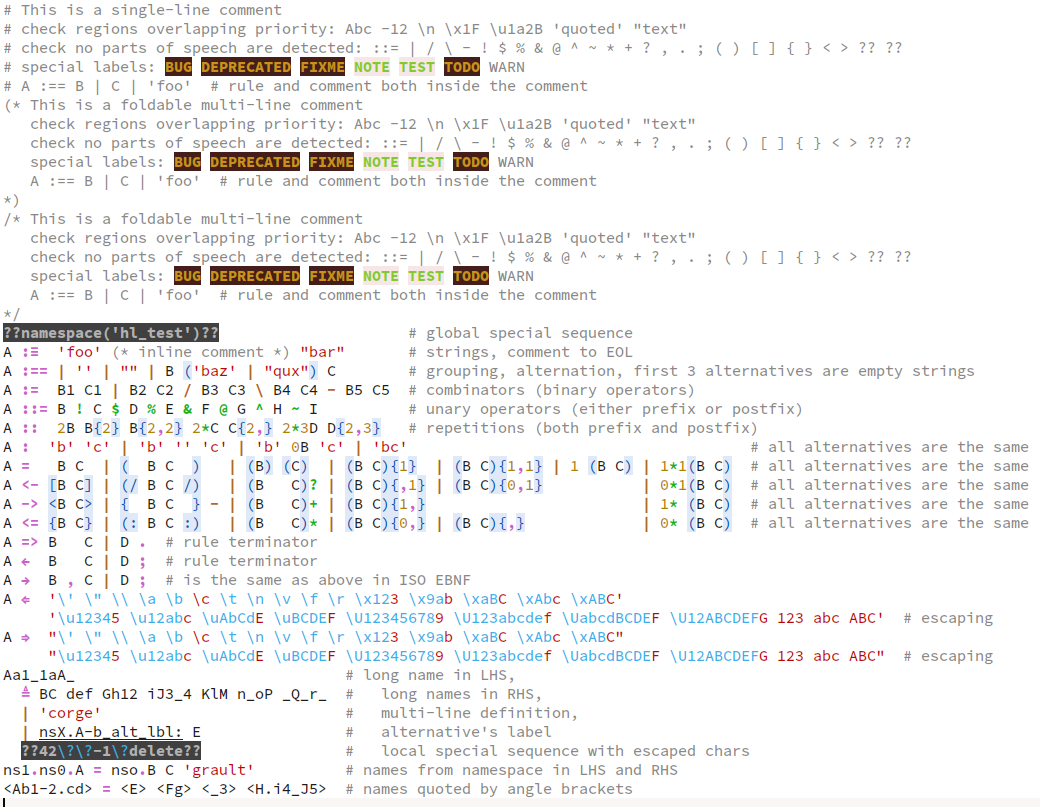
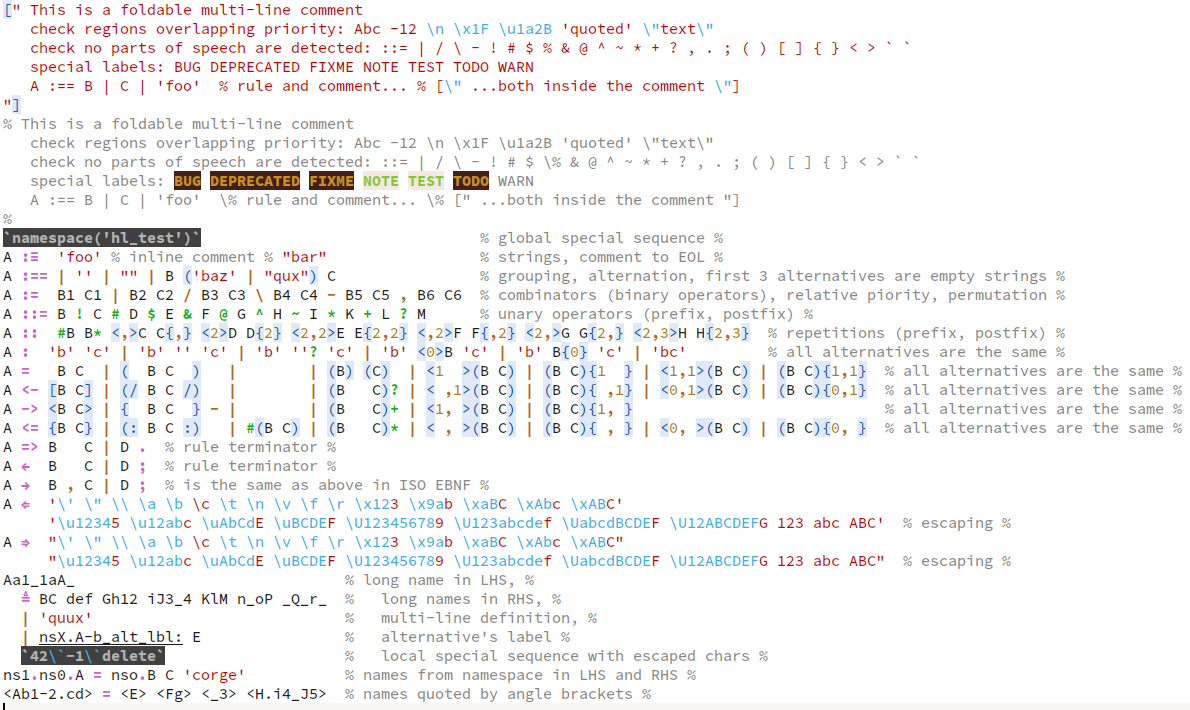
update BNF/EBNF/ABNF/WBNF syntax
BNF/EBNF/ABNF/WBNF syntax for Kate, version 3 and
BNF/EBNF/ABNF/WBNF syntax for mc, version 3.0.0 :
- add unary prefix repetition operators (#) and (<n,n>)
- comma (,) is a combinator not separator
- change special block region markers
- change comment block markers
- bump version
- update a demo

test.bnf
- sync with changes

Changes to be committed:
	modified:   Kate/bnf.xml
	modified:   Kate/test.bnf.html
	modified:   Kate/test.bnf.png
	modified:   mc/bnf.syntax
	modified:   mc/test.bnf.png
	modified:   test.bnf

Changed region(s): [[0.0, 0.0, 1.0, 0.9915], [0.6462, 0.2169, 0.6769, 0.2479]]

diff --git a/Kate/test.bnf.html b/Kate/test.bnf.html
@@ -4,46 +4,41 @@
 <title>test.bnf</title>
 <meta name="generator" content="KF5::SyntaxHighlighting - Definition (BNF/EBNF/ABNF/WBNF) - Theme (Breeze Light)"/>
 </head><body style="background-color:#ffffff;color:#1f1c1b"><pre>
-<span style="color:#898887"># This is a single-line comment</span>
-<span style="color:#898887"># check regions overlapping priority: Abc -12 \n \x1F \u1a2B 'quoted' "text"</span>
-<span style="color:#898887"># check no parts of speech are detected: ::= | / \ - ! $ % &amp; @ ^ ~ * + ? , . ; ( ) [ ] { } &lt; > ?? ??</span>
-<span style="color:#898887"># special labels: </span><span style="color:#ca9219;background-color:#451e1a;font-weight:bold">BUG</span><span style="color:#898887"> </span><span style="color:#ca9219;background-color:#451e1a;font-weight:bold">DEPRECATED</span><span style="color:#898887"> </span><span style="color:#ca9219;background-color:#451e1a;font-weight:bold">FIXME</span><span style="color:#898887"> </span><span style="color:#81ca2d;background-color:#f7e6e6;font-weight:bold">NOTE</span><span style="color:#898887"> </span><span style="color:#81ca2d;background-color:#f7e6e6;font-weight:bold">TEST</span><span style="color:#898887"> </span><span style="color:#ca9219;background-color:#451e1a;font-weight:bold">TODO</span><span style="color:#898887"> WARN</span>
-<span style="color:#898887"># A :== B | C | 'foo'  # rule and comment both inside the comment</span>
-<span style="color:#898887">(* This is a foldable multi-line comment</span>
-<span style="color:#898887">   check regions overlapping priority: Abc -12 \n \x1F \u1a2B 'quoted' "text"</span>
-<span style="color:#898887">   check no parts of speech are detected: ::= | / \ - ! $ % &amp; @ ^ ~ * + ? , . ; ( ) [ ] { } &lt; > ?? ??</span>
+<span style="color:#0057ae;background-color:#e0e9f8">[</span><span style="color:#bf0303">" This is a foldable multi-line comment</span>
+<span style="color:#bf0303">   check regions overlapping priority: Abc -12 </span><span style="color:#3daee9">\n</span><span style="color:#bf0303"> </span><span style="color:#3daee9">\x1F</span><span style="color:#bf0303"> </span><span style="color:#3daee9">\u1a2B</span><span style="color:#bf0303"> 'quoted' </span><span style="color:#3daee9">\"</span><span style="color:#bf0303">text</span><span style="color:#3daee9">\"</span>
+<span style="color:#bf0303">   check no parts of speech are detected: ::= | / \ - ! # $ % &amp; @ ^ ~ * + ? , . ; ( ) [ ] { } &lt; > ` `</span>
+<span style="color:#bf0303">   special labels: BUG DEPRECATED FIXME NOTE TEST TODO WARN</span>
+<span style="color:#bf0303">   A :== B | C | 'foo'  % rule and comment... % [</span><span style="color:#3daee9">\"</span><span style="color:#bf0303"> ...both inside the comment </span><span style="color:#3daee9">\"</span><span style="color:#bf0303">]</span>
+<span style="color:#bf0303">"</span><span style="color:#0057ae;background-color:#e0e9f8">]</span>
+<span style="color:#898887">% This is a foldable multi-line comment</span>
+<span style="color:#898887">   check regions overlapping priority: Abc -12 \n \x1F \u1a2B 'quoted' \"text\"</span>
+<span style="color:#898887">   check no parts of speech are detected: ::= | / \ - ! # $ \% &amp; @ ^ ~ * + ? , . ; ( ) [ ] { } &lt; > ` `</span>
 <span style="color:#898887">   special labels: </span><span style="color:#ca9219;background-color:#451e1a;font-weight:bold">BUG</span><span style="color:#898887"> </span><span style="color:#ca9219;background-color:#451e1a;font-weight:bold">DEPRECATED</span><span style="color:#898887"> </span><span style="color:#ca9219;background-color:#451e1a;font-weight:bold">FIXME</span><span style="color:#898887"> </span><span style="color:#81ca2d;background-color:#f7e6e6;font-weight:bold">NOTE</span><span style="color:#898887"> </span><span style="color:#81ca2d;background-color:#f7e6e6;font-weight:bold">TEST</span><span style="color:#898887"> </span><span style="color:#ca9219;background-color:#451e1a;font-weight:bold">TODO</span><span style="color:#898887"> WARN</span>
-<span style="color:#898887">   A :== B | C | 'foo'  # rule and comment both inside the comment</span>
-<span style="color:#898887">*)</span>
-<span style="color:#898887">/* This is a foldable multi-line comment</span>
-<span style="color:#898887">   check regions overlapping priority: Abc -12 \n \x1F \u1a2B 'quoted' "text"</span>
-<span style="color:#898887">   check no parts of speech are detected: ::= | / \ - ! $ % &amp; @ ^ ~ * + ? , . ; ( ) [ ] { } &lt; > ?? ??</span>
-<span style="color:#898887">   special labels: </span><span style="color:#ca9219;background-color:#451e1a;font-weight:bold">BUG</span><span style="color:#898887"> </span><span style="color:#ca9219;background-color:#451e1a;font-weight:bold">DEPRECATED</span><span style="color:#898887"> </span><span style="color:#ca9219;background-color:#451e1a;font-weight:bold">FIXME</span><span style="color:#898887"> </span><span style="color:#81ca2d;background-color:#f7e6e6;font-weight:bold">NOTE</span><span style="color:#898887"> </span><span style="color:#81ca2d;background-color:#f7e6e6;font-weight:bold">TEST</span><span style="color:#898887"> </span><span style="color:#ca9219;background-color:#451e1a;font-weight:bold">TODO</span><span style="color:#898887"> WARN</span>
-<span style="color:#898887">   A :== B | C | 'foo'  # rule and comment both inside the comment</span>
-<span style="color:#898887">*/</span>
-<span style="color:#b2b2b2;background-color:#404040;font-weight:bold">??namespace('hl_test')??</span>                     <span style="color:#898887"># global special sequence</span>
-A <span style="color:#ca60ca;font-weight:bold">:≡</span>  <span style="color:#bf0303">'foo'</span> <span style="color:#898887">(* inline comment *)</span> <span style="color:#bf0303">"bar"</span>       <span style="color:#898887"># strings, comment to EOL</span>
-A <span style="color:#ca60ca;font-weight:bold">:==</span> <span style="color:#b26818;font-weight:bold">|</span> <span style="color:#bf0303">''</span> <span style="color:#b26818;font-weight:bold">|</span> <span style="color:#bf0303">""</span> <span style="color:#b26818;font-weight:bold">|</span> B <span style="color:#0057ae;background-color:#e0e9f8">(</span><span style="color:#bf0303">'baz'</span> <span style="color:#b26818;font-weight:bold">|</span> <span style="color:#bf0303">"qux"</span><span style="color:#0057ae;background-color:#e0e9f8">)</span> C        <span style="color:#898887"># grouping, alternation, first 3 alternatives are empty strings</span>
-A <span style="color:#ca60ca;font-weight:bold">:=</span>  B1 C1 <span style="color:#b26818;font-weight:bold">|</span> B2 C2 <span style="color:#b26818;font-weight:bold">/</span> B3 C3 <span style="color:#b26818;font-weight:bold">\</span> B4 C4 <span style="color:#b26818;font-weight:bold">-</span> B5 C5  <span style="color:#898887"># combinators (binary operators)</span>
-A <span style="color:#ca60ca;font-weight:bold">::=</span> B <span style="color:#18b218;font-weight:bold">!</span> C <span style="color:#18b218;font-weight:bold">$</span> D <span style="color:#18b218;font-weight:bold">%</span> E <span style="color:#18b218;font-weight:bold">&amp;</span> F <span style="color:#18b218;font-weight:bold">@</span> G <span style="color:#18b218;font-weight:bold">^</span> H <span style="color:#18b218;font-weight:bold">~</span> I          <span style="color:#898887"># unary operators (either prefix or postfix)</span>
-A <span style="color:#ca60ca;font-weight:bold">::</span>  <span style="color:#b08000">2</span>B B<span style="color:#0057ae;background-color:#e0e9f8">{</span><span style="color:#b08000">2</span><span style="color:#0057ae;background-color:#e0e9f8">}</span> B<span style="color:#0057ae;background-color:#e0e9f8">{</span><span style="color:#b08000">2</span><span style="color:#ca60ca;font-weight:bold">,</span><span style="color:#b08000">2</span><span style="color:#0057ae;background-color:#e0e9f8">}</span> <span style="color:#b08000">2</span><span style="color:#18b218;font-weight:bold">*</span>C C<span style="color:#0057ae;background-color:#e0e9f8">{</span><span style="color:#b08000">2</span><span style="color:#ca60ca;font-weight:bold">,</span><span style="color:#0057ae;background-color:#e0e9f8">}</span> <span style="color:#b08000">2</span><span style="color:#18b218;font-weight:bold">*</span><span style="color:#b08000">3</span>D D<span style="color:#0057ae;background-color:#e0e9f8">{</span><span style="color:#b08000">2</span><span style="color:#ca60ca;font-weight:bold">,</span><span style="color:#b08000">3</span><span style="color:#0057ae;background-color:#e0e9f8">}</span>   <span style="color:#898887"># repetitions (both prefix and postfix)</span>
-A <span style="color:#ca60ca;font-weight:bold">:</span>  <span style="color:#bf0303">'b'</span> <span style="color:#bf0303">'c'</span> <span style="color:#b26818;font-weight:bold">|</span> <span style="color:#bf0303">'b'</span> <span style="color:#bf0303">''</span> <span style="color:#bf0303">'c'</span> <span style="color:#b26818;font-weight:bold">|</span> <span style="color:#bf0303">'b'</span> <span style="color:#b08000">0</span>B <span style="color:#bf0303">'c'</span> <span style="color:#b26818;font-weight:bold">|</span> <span style="color:#bf0303">'bc'</span>                                      <span style="color:#898887"># all alternatives are the same</span>
-A <span style="color:#ca60ca;font-weight:bold">=</span>   B C  <span style="color:#b26818;font-weight:bold">|</span> <span style="color:#0057ae;background-color:#e0e9f8">(</span>  B C  <span style="color:#0057ae;background-color:#e0e9f8">)</span>   <span style="color:#b26818;font-weight:bold">|</span> <span style="color:#0057ae;background-color:#e0e9f8">(</span>B<span style="color:#0057ae;background-color:#e0e9f8">)</span> <span style="color:#0057ae;background-color:#e0e9f8">(</span>C<span style="color:#0057ae;background-color:#e0e9f8">)</span>  <span style="color:#b26818;font-weight:bold">|</span> <span style="color:#0057ae;background-color:#e0e9f8">(</span>B C<span style="color:#0057ae;background-color:#e0e9f8">){</span><span style="color:#b08000">1</span><span style="color:#0057ae;background-color:#e0e9f8">}</span>  <span style="color:#b26818;font-weight:bold">|</span> <span style="color:#0057ae;background-color:#e0e9f8">(</span>B C<span style="color:#0057ae;background-color:#e0e9f8">){</span><span style="color:#b08000">1</span><span style="color:#ca60ca;font-weight:bold">,</span><span style="color:#b08000">1</span><span style="color:#0057ae;background-color:#e0e9f8">}</span> <span style="color:#b26818;font-weight:bold">|</span> <span style="color:#b08000">1</span> <span style="color:#0057ae;background-color:#e0e9f8">(</span>B C<span style="color:#0057ae;background-color:#e0e9f8">)</span> <span style="color:#b26818;font-weight:bold">|</span> <span style="color:#b08000">1</span><span style="color:#18b218;font-weight:bold">*</span><span style="color:#b08000">1</span><span style="color:#0057ae;background-color:#e0e9f8">(</span>B C<span style="color:#0057ae;background-color:#e0e9f8">)</span>  <span style="color:#898887"># all alternatives are the same</span>
-A <span style="color:#ca60ca;font-weight:bold">&lt;-</span> <span style="color:#0057ae;background-color:#e0e9f8">[</span>B C<span style="color:#0057ae;background-color:#e0e9f8">]</span> <span style="color:#b26818;font-weight:bold">|</span> <span style="color:#0057ae;background-color:#e0e9f8">(/</span> B C <span style="color:#0057ae;background-color:#e0e9f8">/)</span>   <span style="color:#b26818;font-weight:bold">|</span> <span style="color:#0057ae;background-color:#e0e9f8">(</span>B   C<span style="color:#0057ae;background-color:#e0e9f8">)</span><span style="color:#18b218;font-weight:bold">?</span> <span style="color:#b26818;font-weight:bold">|</span> <span style="color:#0057ae;background-color:#e0e9f8">(</span>B C<span style="color:#0057ae;background-color:#e0e9f8">){</span><span style="color:#ca60ca;font-weight:bold">,</span><span style="color:#b08000">1</span><span style="color:#0057ae;background-color:#e0e9f8">}</span> <span style="color:#b26818;font-weight:bold">|</span> <span style="color:#0057ae;background-color:#e0e9f8">(</span>B C<span style="color:#0057ae;background-color:#e0e9f8">){</span><span style="color:#b08000">0</span><span style="color:#ca60ca;font-weight:bold">,</span><span style="color:#b08000">1</span><span style="color:#0057ae;background-color:#e0e9f8">}</span>           <span style="color:#b26818;font-weight:bold">|</span> <span style="color:#b08000">0</span><span style="color:#18b218;font-weight:bold">*</span><span style="color:#b08000">1</span><span style="color:#0057ae;background-color:#e0e9f8">(</span>B C<span style="color:#0057ae;background-color:#e0e9f8">)</span>  <span style="color:#898887"># all alternatives are the same</span>
-A <span style="color:#ca60ca;font-weight:bold">-></span> <span style="color:#0057ae;background-color:#e0e9f8">&lt;</span>B C<span style="color:#0057ae;background-color:#e0e9f8">></span> <span style="color:#b26818;font-weight:bold">|</span> <span style="color:#0057ae;background-color:#e0e9f8">{</span>  B C  <span style="color:#0057ae;background-color:#e0e9f8">}</span> <span style="color:#b26818;font-weight:bold">-</span> <span style="color:#b26818;font-weight:bold">|</span> <span style="color:#0057ae;background-color:#e0e9f8">(</span>B   C<span style="color:#0057ae;background-color:#e0e9f8">)</span><span style="color:#18b218;font-weight:bold">+</span> <span style="color:#b26818;font-weight:bold">|</span> <span style="color:#0057ae;background-color:#e0e9f8">(</span>B C<span style="color:#0057ae;background-color:#e0e9f8">){</span><span style="color:#b08000">1</span><span style="color:#ca60ca;font-weight:bold">,</span><span style="color:#0057ae;background-color:#e0e9f8">}</span>                        <span style="color:#b26818;font-weight:bold">|</span> <span style="color:#b08000">1</span><span style="color:#18b218;font-weight:bold">*</span> <span style="color:#0057ae;background-color:#e0e9f8">(</span>B C<span style="color:#0057ae;background-color:#e0e9f8">)</span>  <span style="color:#898887"># all alternatives are the same</span>
-A <span style="color:#ca60ca;font-weight:bold">&lt;=</span> <span style="color:#0057ae;background-color:#e0e9f8">{</span>B C<span style="color:#0057ae;background-color:#e0e9f8">}</span> <span style="color:#b26818;font-weight:bold">|</span> <span style="color:#0057ae;background-color:#e0e9f8">(:</span> B C <span style="color:#0057ae;background-color:#e0e9f8">:)</span>   <span style="color:#b26818;font-weight:bold">|</span> <span style="color:#0057ae;background-color:#e0e9f8">(</span>B   C<span style="color:#0057ae;background-color:#e0e9f8">)</span><span style="color:#18b218;font-weight:bold">*</span> <span style="color:#b26818;font-weight:bold">|</span> <span style="color:#0057ae;background-color:#e0e9f8">(</span>B C<span style="color:#0057ae;background-color:#e0e9f8">){</span><span style="color:#b08000">0</span><span style="color:#ca60ca;font-weight:bold">,</span><span style="color:#0057ae;background-color:#e0e9f8">}</span> <span style="color:#b26818;font-weight:bold">|</span> <span style="color:#0057ae;background-color:#e0e9f8">(</span>B C<span style="color:#0057ae;background-color:#e0e9f8">){</span><span style="color:#ca60ca;font-weight:bold">,</span><span style="color:#0057ae;background-color:#e0e9f8">}</span>             <span style="color:#b26818;font-weight:bold">|</span> <span style="color:#b08000">0</span><span style="color:#18b218;font-weight:bold">*</span> <span style="color:#0057ae;background-color:#e0e9f8">(</span>B C<span style="color:#0057ae;background-color:#e0e9f8">)</span>  <span style="color:#898887"># all alternatives are the same</span>
-A <span style="color:#ca60ca;font-weight:bold">=></span> B   C <span style="color:#b26818;font-weight:bold">|</span> D <span style="color:#ca60ca;font-weight:bold">.</span>  <span style="color:#898887"># rule terminator</span>
-A <span style="color:#ca60ca;font-weight:bold">←</span>  B   C <span style="color:#b26818;font-weight:bold">|</span> D <span style="color:#ca60ca;font-weight:bold">;</span>  <span style="color:#898887"># rule terminator</span>
-A <span style="color:#ca60ca;font-weight:bold">→</span>  B <span style="color:#ca60ca;font-weight:bold">,</span> C <span style="color:#b26818;font-weight:bold">|</span> D <span style="color:#ca60ca;font-weight:bold">;</span>  <span style="color:#898887"># is the same as above in ISO EBNF</span>
+<span style="color:#898887">   A :== B | C | 'foo'  \% rule and comment... \% [" ...both inside the comment "]</span>
+<span style="color:#898887">%</span>
+<span style="color:#b2b2b2;background-color:#404040;font-weight:bold">`namespace('hl_test')`</span>                               <span style="color:#898887">% global special sequence %</span>
+A <span style="color:#ca60ca;font-weight:bold">:≡</span>  <span style="color:#bf0303">'foo'</span> <span style="color:#898887">% inline comment %</span> <span style="color:#bf0303">"bar"</span>                 <span style="color:#898887">% strings, comment to EOL %</span>
+A <span style="color:#ca60ca;font-weight:bold">:==</span> <span style="color:#b26818;font-weight:bold">|</span> <span style="color:#bf0303">''</span> <span style="color:#b26818;font-weight:bold">|</span> <span style="color:#bf0303">""</span> <span style="color:#b26818;font-weight:bold">|</span> B <span style="color:#0057ae;background-color:#e0e9f8">(</span><span style="color:#bf0303">'baz'</span> <span style="color:#b26818;font-weight:bold">|</span> <span style="color:#bf0303">"qux"</span><span style="color:#0057ae;background-color:#e0e9f8">)</span> C                <span style="color:#898887">% grouping, alternation, first 3 alternatives are empty strings %</span>
+A <span style="color:#ca60ca;font-weight:bold">:=</span>  B1 C1 <span style="color:#b26818;font-weight:bold">|</span> B2 C2 <span style="color:#b26818;font-weight:bold">/</span> B3 C3 <span style="color:#b26818;font-weight:bold">\</span> B4 C4 <span style="color:#b26818;font-weight:bold">-</span> B5 C5 <span style="color:#b26818;font-weight:bold">,</span> B6 C6  <span style="color:#898887">% combinators (binary operators), relative piority, permutation %</span>
+A <span style="color:#ca60ca;font-weight:bold">::=</span> B <span style="color:#18b218;font-weight:bold">!</span> C <span style="color:#18b218;font-weight:bold">#</span> D <span style="color:#18b218;font-weight:bold">$</span> E <span style="color:#18b218;font-weight:bold">&amp;</span> F <span style="color:#18b218;font-weight:bold">@</span> G <span style="color:#18b218;font-weight:bold">^</span> H <span style="color:#18b218;font-weight:bold">~</span> I <span style="color:#18b218;font-weight:bold">*</span> K <span style="color:#18b218;font-weight:bold">+</span> L <span style="color:#18b218;font-weight:bold">?</span> M      <span style="color:#898887">% unary operators (prefix, postfix) %</span>
+A <span style="color:#ca60ca;font-weight:bold">::</span>  <span style="color:#18b218;font-weight:bold">#</span>B B<span style="color:#18b218;font-weight:bold">*</span> <span style="color:#0057ae;background-color:#e0e9f8">&lt;</span><span style="color:#b26818;font-weight:bold">,</span><span style="color:#0057ae;background-color:#e0e9f8">></span>C C<span style="color:#0057ae;background-color:#e0e9f8">{</span><span style="color:#b26818;font-weight:bold">,</span><span style="color:#0057ae;background-color:#e0e9f8">}</span> <span style="color:#0057ae;background-color:#e0e9f8">&lt;</span><span style="color:#b08000">2</span><span style="color:#0057ae;background-color:#e0e9f8">></span>D D<span style="color:#0057ae;background-color:#e0e9f8">{</span><span style="color:#b08000">2</span><span style="color:#0057ae;background-color:#e0e9f8">}</span> <span style="color:#0057ae;background-color:#e0e9f8">&lt;</span><span style="color:#b08000">2</span><span style="color:#b26818;font-weight:bold">,</span><span style="color:#b08000">2</span><span style="color:#0057ae;background-color:#e0e9f8">></span>E E<span style="color:#0057ae;background-color:#e0e9f8">{</span><span style="color:#b08000">2</span><span style="color:#b26818;font-weight:bold">,</span><span style="color:#b08000">2</span><span style="color:#0057ae;background-color:#e0e9f8">}</span> <span style="color:#0057ae;background-color:#e0e9f8">&lt;</span><span style="color:#b26818;font-weight:bold">,</span><span style="color:#b08000">2</span><span style="color:#0057ae;background-color:#e0e9f8">></span>F F<span style="color:#0057ae;background-color:#e0e9f8">{</span><span style="color:#b26818;font-weight:bold">,</span><span style="color:#b08000">2</span><span style="color:#0057ae;background-color:#e0e9f8">}</span> <span style="color:#0057ae;background-color:#e0e9f8">&lt;</span><span style="color:#b08000">2</span><span style="color:#b26818;font-weight:bold">,</span><span style="color:#0057ae;background-color:#e0e9f8">></span>G G<span style="color:#0057ae;background-color:#e0e9f8">{</span><span style="color:#b08000">2</span><span style="color:#b26818;font-weight:bold">,</span><span style="color:#0057ae;background-color:#e0e9f8">}</span> <span style="color:#0057ae;background-color:#e0e9f8">&lt;</span><span style="color:#b08000">2</span><span style="color:#b26818;font-weight:bold">,</span><span style="color:#b08000">3</span><span style="color:#0057ae;background-color:#e0e9f8">></span>H H<span style="color:#0057ae;background-color:#e0e9f8">{</span><span style="color:#b08000">2</span><span style="color:#b26818;font-weight:bold">,</span><span style="color:#b08000">3</span><span style="color:#0057ae;background-color:#e0e9f8">}</span>  <span style="color:#898887">% repetitions (prefix, postfix) %</span>
+A <span style="color:#ca60ca;font-weight:bold">:</span>  <span style="color:#bf0303">'b'</span> <span style="color:#bf0303">'c'</span> <span style="color:#b26818;font-weight:bold">|</span> <span style="color:#bf0303">'b'</span> <span style="color:#bf0303">''</span> <span style="color:#bf0303">'c'</span> <span style="color:#b26818;font-weight:bold">|</span> <span style="color:#bf0303">'b'</span> <span style="color:#bf0303">''</span><span style="color:#18b218;font-weight:bold">?</span> <span style="color:#bf0303">'c'</span> <span style="color:#b26818;font-weight:bold">|</span> <span style="color:#bf0303">'b'</span> <span style="color:#0057ae;background-color:#e0e9f8">&lt;</span><span style="color:#b08000">0</span><span style="color:#0057ae;background-color:#e0e9f8">></span>B <span style="color:#bf0303">'c'</span> <span style="color:#b26818;font-weight:bold">|</span> <span style="color:#bf0303">'b'</span> B<span style="color:#0057ae;background-color:#e0e9f8">{</span><span style="color:#b08000">0</span><span style="color:#0057ae;background-color:#e0e9f8">}</span> <span style="color:#bf0303">'c'</span> <span style="color:#b26818;font-weight:bold">|</span> <span style="color:#bf0303">'bc'</span>         <span style="color:#898887">% all alternatives are the same %</span>
+A <span style="color:#ca60ca;font-weight:bold">=</span>   B C  <span style="color:#b26818;font-weight:bold">|</span> <span style="color:#0057ae;background-color:#e0e9f8">(</span>  B C  <span style="color:#0057ae;background-color:#e0e9f8">)</span>   <span style="color:#b26818;font-weight:bold">|</span>        <span style="color:#b26818;font-weight:bold">|</span> <span style="color:#0057ae;background-color:#e0e9f8">(</span>B<span style="color:#0057ae;background-color:#e0e9f8">)</span> <span style="color:#0057ae;background-color:#e0e9f8">(</span>C<span style="color:#0057ae;background-color:#e0e9f8">)</span>  <span style="color:#b26818;font-weight:bold">|</span> <span style="color:#0057ae;background-color:#e0e9f8">&lt;</span><span style="color:#b08000">1</span>  <span style="color:#0057ae;background-color:#e0e9f8">>(</span>B C<span style="color:#0057ae;background-color:#e0e9f8">)</span> <span style="color:#b26818;font-weight:bold">|</span> <span style="color:#0057ae;background-color:#e0e9f8">(</span>B C<span style="color:#0057ae;background-color:#e0e9f8">){</span><span style="color:#b08000">1</span>  <span style="color:#0057ae;background-color:#e0e9f8">}</span> <span style="color:#b26818;font-weight:bold">|</span> <span style="color:#0057ae;background-color:#e0e9f8">&lt;</span><span style="color:#b08000">1</span><span style="color:#b26818;font-weight:bold">,</span><span style="color:#b08000">1</span><span style="color:#0057ae;background-color:#e0e9f8">>(</span>B C<span style="color:#0057ae;background-color:#e0e9f8">)</span> <span style="color:#b26818;font-weight:bold">|</span> <span style="color:#0057ae;background-color:#e0e9f8">(</span>B C<span style="color:#0057ae;background-color:#e0e9f8">){</span><span style="color:#b08000">1</span><span style="color:#b26818;font-weight:bold">,</span><span style="color:#b08000">1</span><span style="color:#0057ae;background-color:#e0e9f8">}</span>  <span style="color:#898887">% all alternatives are the same %</span>
+A <span style="color:#ca60ca;font-weight:bold">&lt;-</span> <span style="color:#0057ae;background-color:#e0e9f8">[</span>B C<span style="color:#0057ae;background-color:#e0e9f8">]</span> <span style="color:#b26818;font-weight:bold">|</span> <span style="color:#0057ae;background-color:#e0e9f8">(/</span> B C <span style="color:#0057ae;background-color:#e0e9f8">/)</span>   <span style="color:#b26818;font-weight:bold">|</span>        <span style="color:#b26818;font-weight:bold">|</span> <span style="color:#0057ae;background-color:#e0e9f8">(</span>B   C<span style="color:#0057ae;background-color:#e0e9f8">)</span><span style="color:#18b218;font-weight:bold">?</span> <span style="color:#b26818;font-weight:bold">|</span> <span style="color:#0057ae;background-color:#e0e9f8">&lt;</span> <span style="color:#b26818;font-weight:bold">,</span><span style="color:#b08000">1</span><span style="color:#0057ae;background-color:#e0e9f8">>(</span>B C<span style="color:#0057ae;background-color:#e0e9f8">)</span> <span style="color:#b26818;font-weight:bold">|</span> <span style="color:#0057ae;background-color:#e0e9f8">(</span>B C<span style="color:#0057ae;background-color:#e0e9f8">){</span> <span style="color:#b26818;font-weight:bold">,</span><span style="color:#b08000">1</span><span style="color:#0057ae;background-color:#e0e9f8">}</span> <span style="color:#b26818;font-weight:bold">|</span> <span style="color:#0057ae;background-color:#e0e9f8">&lt;</span><span style="color:#b08000">0</span><span style="color:#b26818;font-weight:bold">,</span><span style="color:#b08000">1</span><span style="color:#0057ae;background-color:#e0e9f8">>(</span>B C<span style="color:#0057ae;background-color:#e0e9f8">)</span> <span style="color:#b26818;font-weight:bold">|</span> <span style="color:#0057ae;background-color:#e0e9f8">(</span>B C<span style="color:#0057ae;background-color:#e0e9f8">){</span><span style="color:#b08000">0</span><span style="color:#b26818;font-weight:bold">,</span><span style="color:#b08000">1</span><span style="color:#0057ae;background-color:#e0e9f8">}</span>  <span style="color:#898887">% all alternatives are the same %</span>
+A <span style="color:#ca60ca;font-weight:bold">-></span> <span style="color:#0057ae;background-color:#e0e9f8">&lt;</span>B C<span style="color:#0057ae;background-color:#e0e9f8">></span> <span style="color:#b26818;font-weight:bold">|</span> <span style="color:#0057ae;background-color:#e0e9f8">{</span>  B C  <span style="color:#0057ae;background-color:#e0e9f8">}</span> <span style="color:#b26818;font-weight:bold">-</span> <span style="color:#b26818;font-weight:bold">|</span>        <span style="color:#b26818;font-weight:bold">|</span> <span style="color:#0057ae;background-color:#e0e9f8">(</span>B   C<span style="color:#0057ae;background-color:#e0e9f8">)</span><span style="color:#18b218;font-weight:bold">+</span> <span style="color:#b26818;font-weight:bold">|</span> <span style="color:#0057ae;background-color:#e0e9f8">&lt;</span><span style="color:#b08000">1</span><span style="color:#b26818;font-weight:bold">,</span> <span style="color:#0057ae;background-color:#e0e9f8">>(</span>B C<span style="color:#0057ae;background-color:#e0e9f8">)</span> <span style="color:#b26818;font-weight:bold">|</span> <span style="color:#0057ae;background-color:#e0e9f8">(</span>B C<span style="color:#0057ae;background-color:#e0e9f8">){</span><span style="color:#b08000">1</span><span style="color:#b26818;font-weight:bold">,</span> <span style="color:#0057ae;background-color:#e0e9f8">}</span>                            <span style="color:#898887">% all alternatives are the same %</span>
+A <span style="color:#ca60ca;font-weight:bold">&lt;=</span> <span style="color:#0057ae;background-color:#e0e9f8">{</span>B C<span style="color:#0057ae;background-color:#e0e9f8">}</span> <span style="color:#b26818;font-weight:bold">|</span> <span style="color:#0057ae;background-color:#e0e9f8">(:</span> B C <span style="color:#0057ae;background-color:#e0e9f8">:)</span>   <span style="color:#b26818;font-weight:bold">|</span> <span style="color:#18b218;font-weight:bold">#</span><span style="color:#0057ae;background-color:#e0e9f8">(</span>B C<span style="color:#0057ae;background-color:#e0e9f8">)</span> <span style="color:#b26818;font-weight:bold">|</span> <span style="color:#0057ae;background-color:#e0e9f8">(</span>B   C<span style="color:#0057ae;background-color:#e0e9f8">)</span><span style="color:#18b218;font-weight:bold">*</span> <span style="color:#b26818;font-weight:bold">|</span> <span style="color:#0057ae;background-color:#e0e9f8">&lt;</span> <span style="color:#b26818;font-weight:bold">,</span> <span style="color:#0057ae;background-color:#e0e9f8">>(</span>B C<span style="color:#0057ae;background-color:#e0e9f8">)</span> <span style="color:#b26818;font-weight:bold">|</span> <span style="color:#0057ae;background-color:#e0e9f8">(</span>B C<span style="color:#0057ae;background-color:#e0e9f8">){</span> <span style="color:#b26818;font-weight:bold">,</span> <span style="color:#0057ae;background-color:#e0e9f8">}</span> <span style="color:#b26818;font-weight:bold">|</span> <span style="color:#0057ae;background-color:#e0e9f8">&lt;</span><span style="color:#b08000">0</span><span style="color:#b26818;font-weight:bold">,</span> <span style="color:#0057ae;background-color:#e0e9f8">>(</span>B C<span style="color:#0057ae;background-color:#e0e9f8">)</span> <span style="color:#b26818;font-weight:bold">|</span> <span style="color:#0057ae;background-color:#e0e9f8">(</span>B C<span style="color:#0057ae;background-color:#e0e9f8">){</span><span style="color:#b08000">0</span><span style="color:#b26818;font-weight:bold">,</span> <span style="color:#0057ae;background-color:#e0e9f8">}</span>  <span style="color:#898887">% all alternatives are the same %</span>
+A <span style="color:#ca60ca;font-weight:bold">=></span> B   C <span style="color:#b26818;font-weight:bold">|</span> D <span style="color:#ca60ca;font-weight:bold">.</span>  <span style="color:#898887">% rule terminator %</span>
+A <span style="color:#ca60ca;font-weight:bold">←</span>  B   C <span style="color:#b26818;font-weight:bold">|</span> D <span style="color:#ca60ca;font-weight:bold">;</span>  <span style="color:#898887">% rule terminator %</span>
+A <span style="color:#ca60ca;font-weight:bold">→</span>  B <span style="color:#b26818;font-weight:bold">,</span> C <span style="color:#b26818;font-weight:bold">|</span> D <span style="color:#ca60ca;font-weight:bold">;</span>  <span style="color:#898887">% is the same as above in ISO EBNF %</span>
 A <span style="color:#ca60ca;font-weight:bold">⇐</span>  <span style="color:#bf0303">'</span><span style="color:#3daee9">\'</span><span style="color:#bf0303"> </span><span style="color:#3daee9">\"</span><span style="color:#bf0303"> </span><span style="color:#3daee9">\\</span><span style="color:#bf0303"> </span><span style="color:#3daee9">\a</span><span style="color:#bf0303"> </span><span style="color:#3daee9">\b</span><span style="color:#bf0303"> \c </span><span style="color:#3daee9">\t</span><span style="color:#bf0303"> </span><span style="color:#3daee9">\n</span><span style="color:#bf0303"> </span><span style="color:#3daee9">\v</span><span style="color:#bf0303"> </span><span style="color:#3daee9">\f</span><span style="color:#bf0303"> </span><span style="color:#3daee9">\r</span><span style="color:#bf0303"> </span><span style="color:#3daee9">\x12</span><span style="color:#bf0303">3 </span><span style="color:#3daee9">\x9a</span><span style="color:#bf0303">b </span><span style="color:#3daee9">\xaB</span><span style="color:#bf0303">C </span><span style="color:#3daee9">\xAb</span><span style="color:#bf0303">c </span><span style="color:#3daee9">\xAB</span><span style="color:#bf0303">C'</span>
-     <span style="color:#bf0303">'</span><span style="color:#3daee9">\u1234</span><span style="color:#bf0303">5 </span><span style="color:#3daee9">\u12ab</span><span style="color:#bf0303">c </span><span style="color:#3daee9">\uAbCd</span><span style="color:#bf0303">E </span><span style="color:#3daee9">\uBCDE</span><span style="color:#bf0303">F </span><span style="color:#3daee9">\U12345678</span><span style="color:#bf0303">9 </span><span style="color:#3daee9">\U123abcde</span><span style="color:#bf0303">f </span><span style="color:#3daee9">\UabcdBCDE</span><span style="color:#bf0303">F </span><span style="color:#3daee9">\U12ABCDEF</span><span style="color:#bf0303">G 123 abc ABC'</span>  <span style="color:#898887"># escaping</span>
+     <span style="color:#bf0303">'</span><span style="color:#3daee9">\u1234</span><span style="color:#bf0303">5 </span><span style="color:#3daee9">\u12ab</span><span style="color:#bf0303">c </span><span style="color:#3daee9">\uAbCd</span><span style="color:#bf0303">E </span><span style="color:#3daee9">\uBCDE</span><span style="color:#bf0303">F </span><span style="color:#3daee9">\U12345678</span><span style="color:#bf0303">9 </span><span style="color:#3daee9">\U123abcde</span><span style="color:#bf0303">f </span><span style="color:#3daee9">\UabcdBCDE</span><span style="color:#bf0303">F </span><span style="color:#3daee9">\U12ABCDEF</span><span style="color:#bf0303">G 123 abc ABC'</span>  <span style="color:#898887">% escaping %</span>
 A <span style="color:#ca60ca;font-weight:bold">⇒</span>  <span style="color:#bf0303">"</span><span style="color:#3daee9">\'</span><span style="color:#bf0303"> </span><span style="color:#3daee9">\"</span><span style="color:#bf0303"> </span><span style="color:#3daee9">\\</span><span style="color:#bf0303"> </span><span style="color:#3daee9">\a</span><span style="color:#bf0303"> </span><span style="color:#3daee9">\b</span><span style="color:#bf0303"> \c </span><span style="color:#3daee9">\t</span><span style="color:#bf0303"> </span><span style="color:#3daee9">\n</span><span style="color:#bf0303"> </span><span style="color:#3daee9">\v</span><span style="color:#bf0303"> </span><span style="color:#3daee9">\f</span><span style="color:#bf0303"> </span><span style="color:#3daee9">\r</span><span style="color:#bf0303"> </span><span style="color:#3daee9">\x12</span><span style="color:#bf0303">3 </span><span style="color:#3daee9">\x9a</span><span style="color:#bf0303">b </span><span style="color:#3daee9">\xaB</span><span style="color:#bf0303">C </span><span style="color:#3daee9">\xAb</span><span style="color:#bf0303">c </span><span style="color:#3daee9">\xAB</span><span style="color:#bf0303">C"</span>
-     <span style="color:#bf0303">"</span><span style="color:#3daee9">\u1234</span><span style="color:#bf0303">5 </span><span style="color:#3daee9">\u12ab</span><span style="color:#bf0303">c </span><span style="color:#3daee9">\uAbCd</span><span style="color:#bf0303">E </span><span style="color:#3daee9">\uBCDE</span><span style="color:#bf0303">F </span><span style="color:#3daee9">\U12345678</span><span style="color:#bf0303">9 </span><span style="color:#3daee9">\U123abcde</span><span style="color:#bf0303">f </span><span style="color:#3daee9">\UabcdBCDE</span><span style="color:#bf0303">F </span><span style="color:#3daee9">\U12ABCDEF</span><span style="color:#bf0303">G 123 abc ABC"</span>  <span style="color:#898887"># escaping</span>
-Aa1_1aA_                              <span style="color:#898887"># long name in LHS,</span>
-  <span style="color:#ca60ca;font-weight:bold">≜</span> BC def Gh12 iJ3_4 KlM n_oP _Q_r_  <span style="color:#898887">#   long names in RHS,</span>
-  <span style="color:#b26818;font-weight:bold">|</span> <span style="color:#bf0303">'corge'</span>                           <span style="color:#898887">#   multi-line definition,</span>
-  <span style="color:#b26818;font-weight:bold">|</span> <span style="text-decoration:underline">nsX.A-b_alt_lbl:</span> E                <span style="color:#898887">#   alternative's label</span>
-  <span style="color:#b2b2b2;background-color:#404040;font-weight:bold">??42</span><span style="color:#3daee9;background-color:#404040">\?\?</span><span style="color:#b2b2b2;background-color:#404040;font-weight:bold">-1</span><span style="color:#3daee9;background-color:#404040">\?</span><span style="color:#b2b2b2;background-color:#404040;font-weight:bold">delete??</span>                <span style="color:#898887">#   local special sequence with escaped chars</span>
-ns1<span style="color:#ca60ca;font-weight:bold">.</span>ns0<span style="color:#ca60ca;font-weight:bold">.</span>A <span style="color:#ca60ca;font-weight:bold">=</span> nso<span style="color:#ca60ca;font-weight:bold">.</span>B C <span style="color:#bf0303">'grault'</span>          <span style="color:#898887"># names from namespace in LHS and RHS</span>
-&lt;Ab1-2.cd> <span style="color:#ca60ca;font-weight:bold">=</span> &lt;E> &lt;Fg> &lt;_3> &lt;H.i4_J5>  <span style="color:#898887"># names quoted by angle brackets</span>
+     <span style="color:#bf0303">"</span><span style="color:#3daee9">\u1234</span><span style="color:#bf0303">5 </span><span style="color:#3daee9">\u12ab</span><span style="color:#bf0303">c </span><span style="color:#3daee9">\uAbCd</span><span style="color:#bf0303">E </span><span style="color:#3daee9">\uBCDE</span><span style="color:#bf0303">F </span><span style="color:#3daee9">\U12345678</span><span style="color:#bf0303">9 </span><span style="color:#3daee9">\U123abcde</span><span style="color:#bf0303">f </span><span style="color:#3daee9">\UabcdBCDE</span><span style="color:#bf0303">F </span><span style="color:#3daee9">\U12ABCDEF</span><span style="color:#bf0303">G 123 abc ABC"</span>  <span style="color:#898887">% escaping %</span>
+Aa1_1aA_                              <span style="color:#898887">% long name in LHS, %</span>
+  <span style="color:#ca60ca;font-weight:bold">≜</span> BC def Gh12 iJ3_4 KlM n_oP _Q_r_  <span style="color:#898887">%   long names in RHS, %</span>
+  <span style="color:#b26818;font-weight:bold">|</span> <span style="color:#bf0303">'quux'</span>                            <span style="color:#898887">%   multi-line definition, %</span>
+  <span style="color:#b26818;font-weight:bold">|</span> <span style="text-decoration:underline">nsX.A-b_alt_lbl:</span> E                <span style="color:#898887">%   alternative's label %</span>
+  <span style="color:#b2b2b2;background-color:#404040;font-weight:bold">`42</span><span style="color:#3daee9;background-color:#404040">\`</span><span style="color:#b2b2b2;background-color:#404040;font-weight:bold">-1</span><span style="color:#3daee9;background-color:#404040">\`</span><span style="color:#b2b2b2;background-color:#404040;font-weight:bold">delete`</span>                    <span style="color:#898887">%   local special sequence with escaped chars %</span>
+ns1<span style="color:#ca60ca;font-weight:bold">.</span>ns0<span style="color:#ca60ca;font-weight:bold">.</span>A <span style="color:#ca60ca;font-weight:bold">=</span> nso<span style="color:#ca60ca;font-weight:bold">.</span>B C <span style="color:#bf0303">'corge'</span>           <span style="color:#898887">% names from namespace in LHS and RHS %</span>
+&lt;Ab1-2.cd> <span style="color:#ca60ca;font-weight:bold">=</span> &lt;E> &lt;Fg> &lt;_3> &lt;H.i4_J5>  <span style="color:#898887">% names quoted by angle brackets %</span>
 </pre></body></html>
